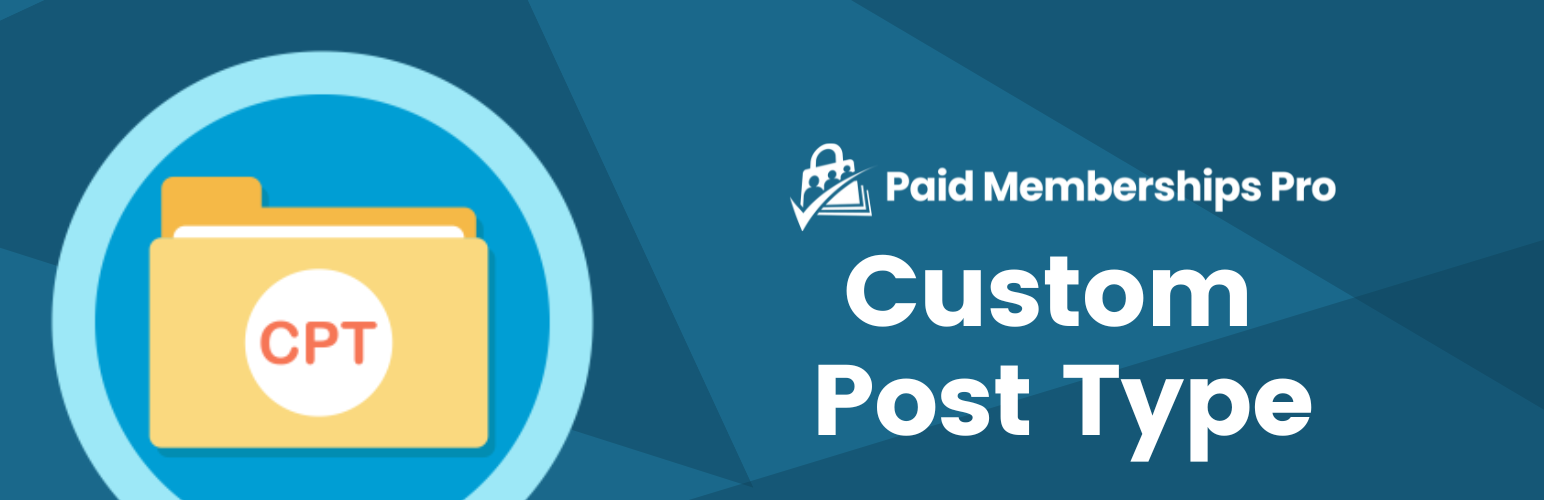
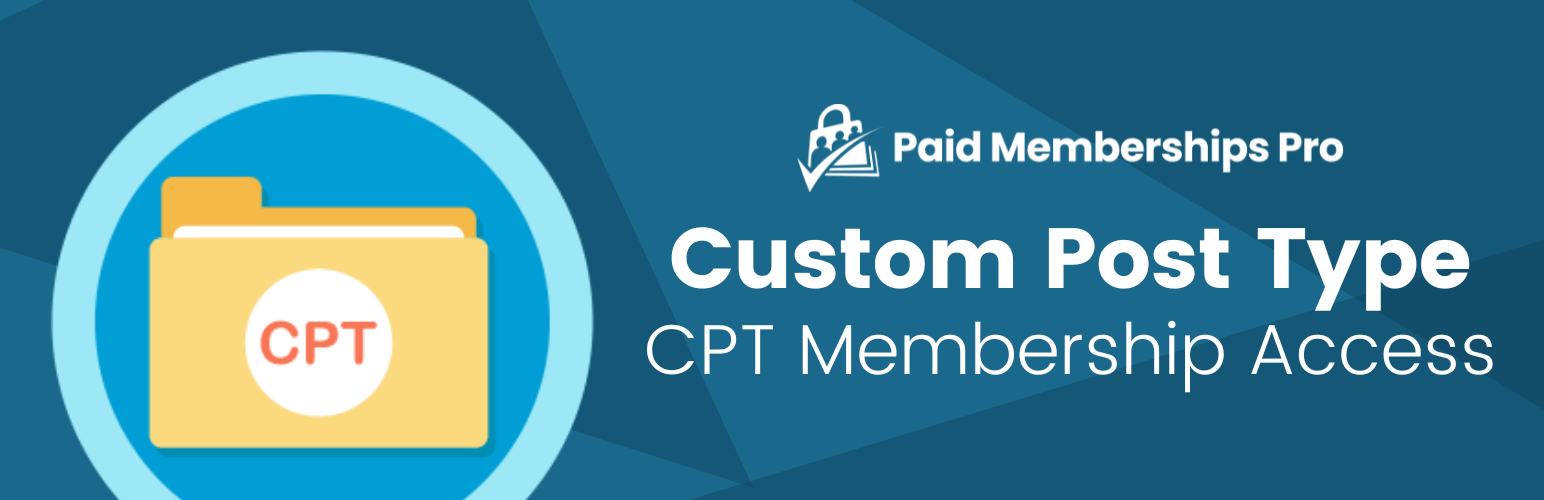
Repo files

Changed region(s): [[0.4041, 0.21, 0.9637, 0.93]]

diff --git a/readme.md b/readme.md
@@ -1,38 +1,39 @@
-![](pmpro-cpt.png)
+![](pmpro-cpt-banner.png)
 
-# [Plugin Name](https://www.paidmembershipspro.com/add-ons/custom-post-type-membership-access) #
+# [Paid Memberships Pro - Custom Post Type (CPT) Membership Access](https://www.paidmembershipspro.com/add-ons/custom-post-type-membership-access) #
 [comment]: # (Generate badges from shields.io, only works for .org plugins to get other stats etc. We'd have to create our own endpoints for Premium plugins)
 
 ![License](https://img.shields.io/badge/license-GPL--3.0%2B-red.svg?style=flat-square)
 
-### Welcome to the Plugin Name GitHub Repository
-Add a description of the product here.
+### Welcome to the Paid Memberships Pro - Custom Post Type (CPT) Membership Access
 
-For more information please visit [Custom Post Type (CPT) Membership Access](https://www.paidmembershipspro.com/add-ons/custom-post-type-membership-access)
+This Add On allows you to restrict access to custom post types and optionally redirect away from protected CPTs.
+
+For more information please visit [the Add On documentation page for this plugin](https://www.paidmembershipspro.com/add-ons/custom-post-type-membership-access)
 
 ## Installation ##
-For detailed installation steps, visit the [Custom Post Type (CPT) Membership Access](https://www.paidmembershipspro.com/add-ons/custom-post-type-membership-access) page.
+For detailed installation steps, visit the [documentation](https://www.paidmembershipspro.com/add-ons/custom-post-type-membership-access) page.
 
 1. Download the current development ZIP file directly: `https://github.com/strangerstudios/pmpro-cpt/archive/dev.zip`
 
 **Please ensure that once installing this version of the plugin to remove `-dev` from the plugin's folder name.**
 
 ## Bugs ##
-If you find an issue/bug, let us know by [creating a detailed GitHub issue](https://github.com/strangerstudios/pmpro-cpt/issues/new).
+If you find an issue/bug, let us know by [creating a detailed GitHub issue](https://github.com/strangerstudios/pmpro-cpt/issues/new/choose).
 
 ## Support ##
-This is a developer's portal for Plugin Name. We do not offer support on this channel. **Any support related questions should be directed to [paidmembershipspro.com/support](https://www.paidmembershipspro.com/support/).**
+This is a developer's portal for Paid Memberships Pro - Custom Post Type (CPT) Membership Access. We do not offer support on this channel. **Any support related questions should be directed to [our website](https://www.paidmembershipspro.com/add-ons/custom-post-type-membership-access).**
 
-## Contributing to Plugin Name ##
-We encourage and welcome any contribution to Plugin Name. Please read the [guidelines for contributing](https://github.com/strangerstudios/pmpro-cpt/blob/dev/.github/CONTRIBUTING.md) to this repository.
+## Contributing to Paid Memberships Pro - Custom Post Type (CPT) Membership Access ##
+We encourage and welcome any contribution to Paid Memberships Pro - Custom Post Type (CPT) Membership Access. Please read the [guidelines for contributing](https://github.com/strangerstudios/pmpro-cpt/blob/dev/.github/CONTRIBUTING.md) to this repository.
 
-There are various **ways to the help development** of Plugin Name:
+There are various **ways to the help development** of Paid Memberships Pro - Custom Post Type (CPT) Membership Access:
 
-1. Report [bugs/issues](https://github.com/strangerstudios/pmpro-cpt/issues/new) on GitHub.
+1. Report [bugs/issues](https://github.com/strangerstudios/pmpro-cpt/issues/new/choose) on GitHub.
 2. Work on any issues by submitting a Pull Request.
 
-Here are some ways for **non-developers to contribute** to Plugin Name:
+Here are some ways for **non-developers to contribute** to Paid Memberships Pro - Custom Post Type (CPT) Membership Access:
 
-1. Translate Plugin Name into your own [language](https://www.paidmembershipspro.com/paid-memberships-pro-in-your-language/).
-2. [Purchase a paid membership](https://paidmembershipspro.com/pricing) to help fund ongoing development and bug fixes.
+1. Translate Paid Memberships Pro - Custom Post Type (CPT) Membership Access into your own [language](https://www.paidmembershipspro.com/paid-memberships-pro-in-your-language/).
+2. [Purchase a plan](https://paidmembershipspro.com/pricing) to help fund ongoing development and bug fixes.
 3. Leave an honest review for [Custom Post Type (CPT) Membership Access](https://www.paidmembershipspro.com/submit-testimonial/).

diff --git a/.github/ISSUE_TEMPLATE/bug_report.md b/.github/ISSUE_TEMPLATE/bug_report.md
@@ -1,6 +1,6 @@
 ---
 name: "🐛 Bug Report"
-about: Report a bug if something isn't working as expected in Custom Post Type (CPT) Membership Access.
+about: Report a bug if something isn't working as expected in Paid Memberships Pro.
 title: ''
 labels: 'bug'
 assignees: ''